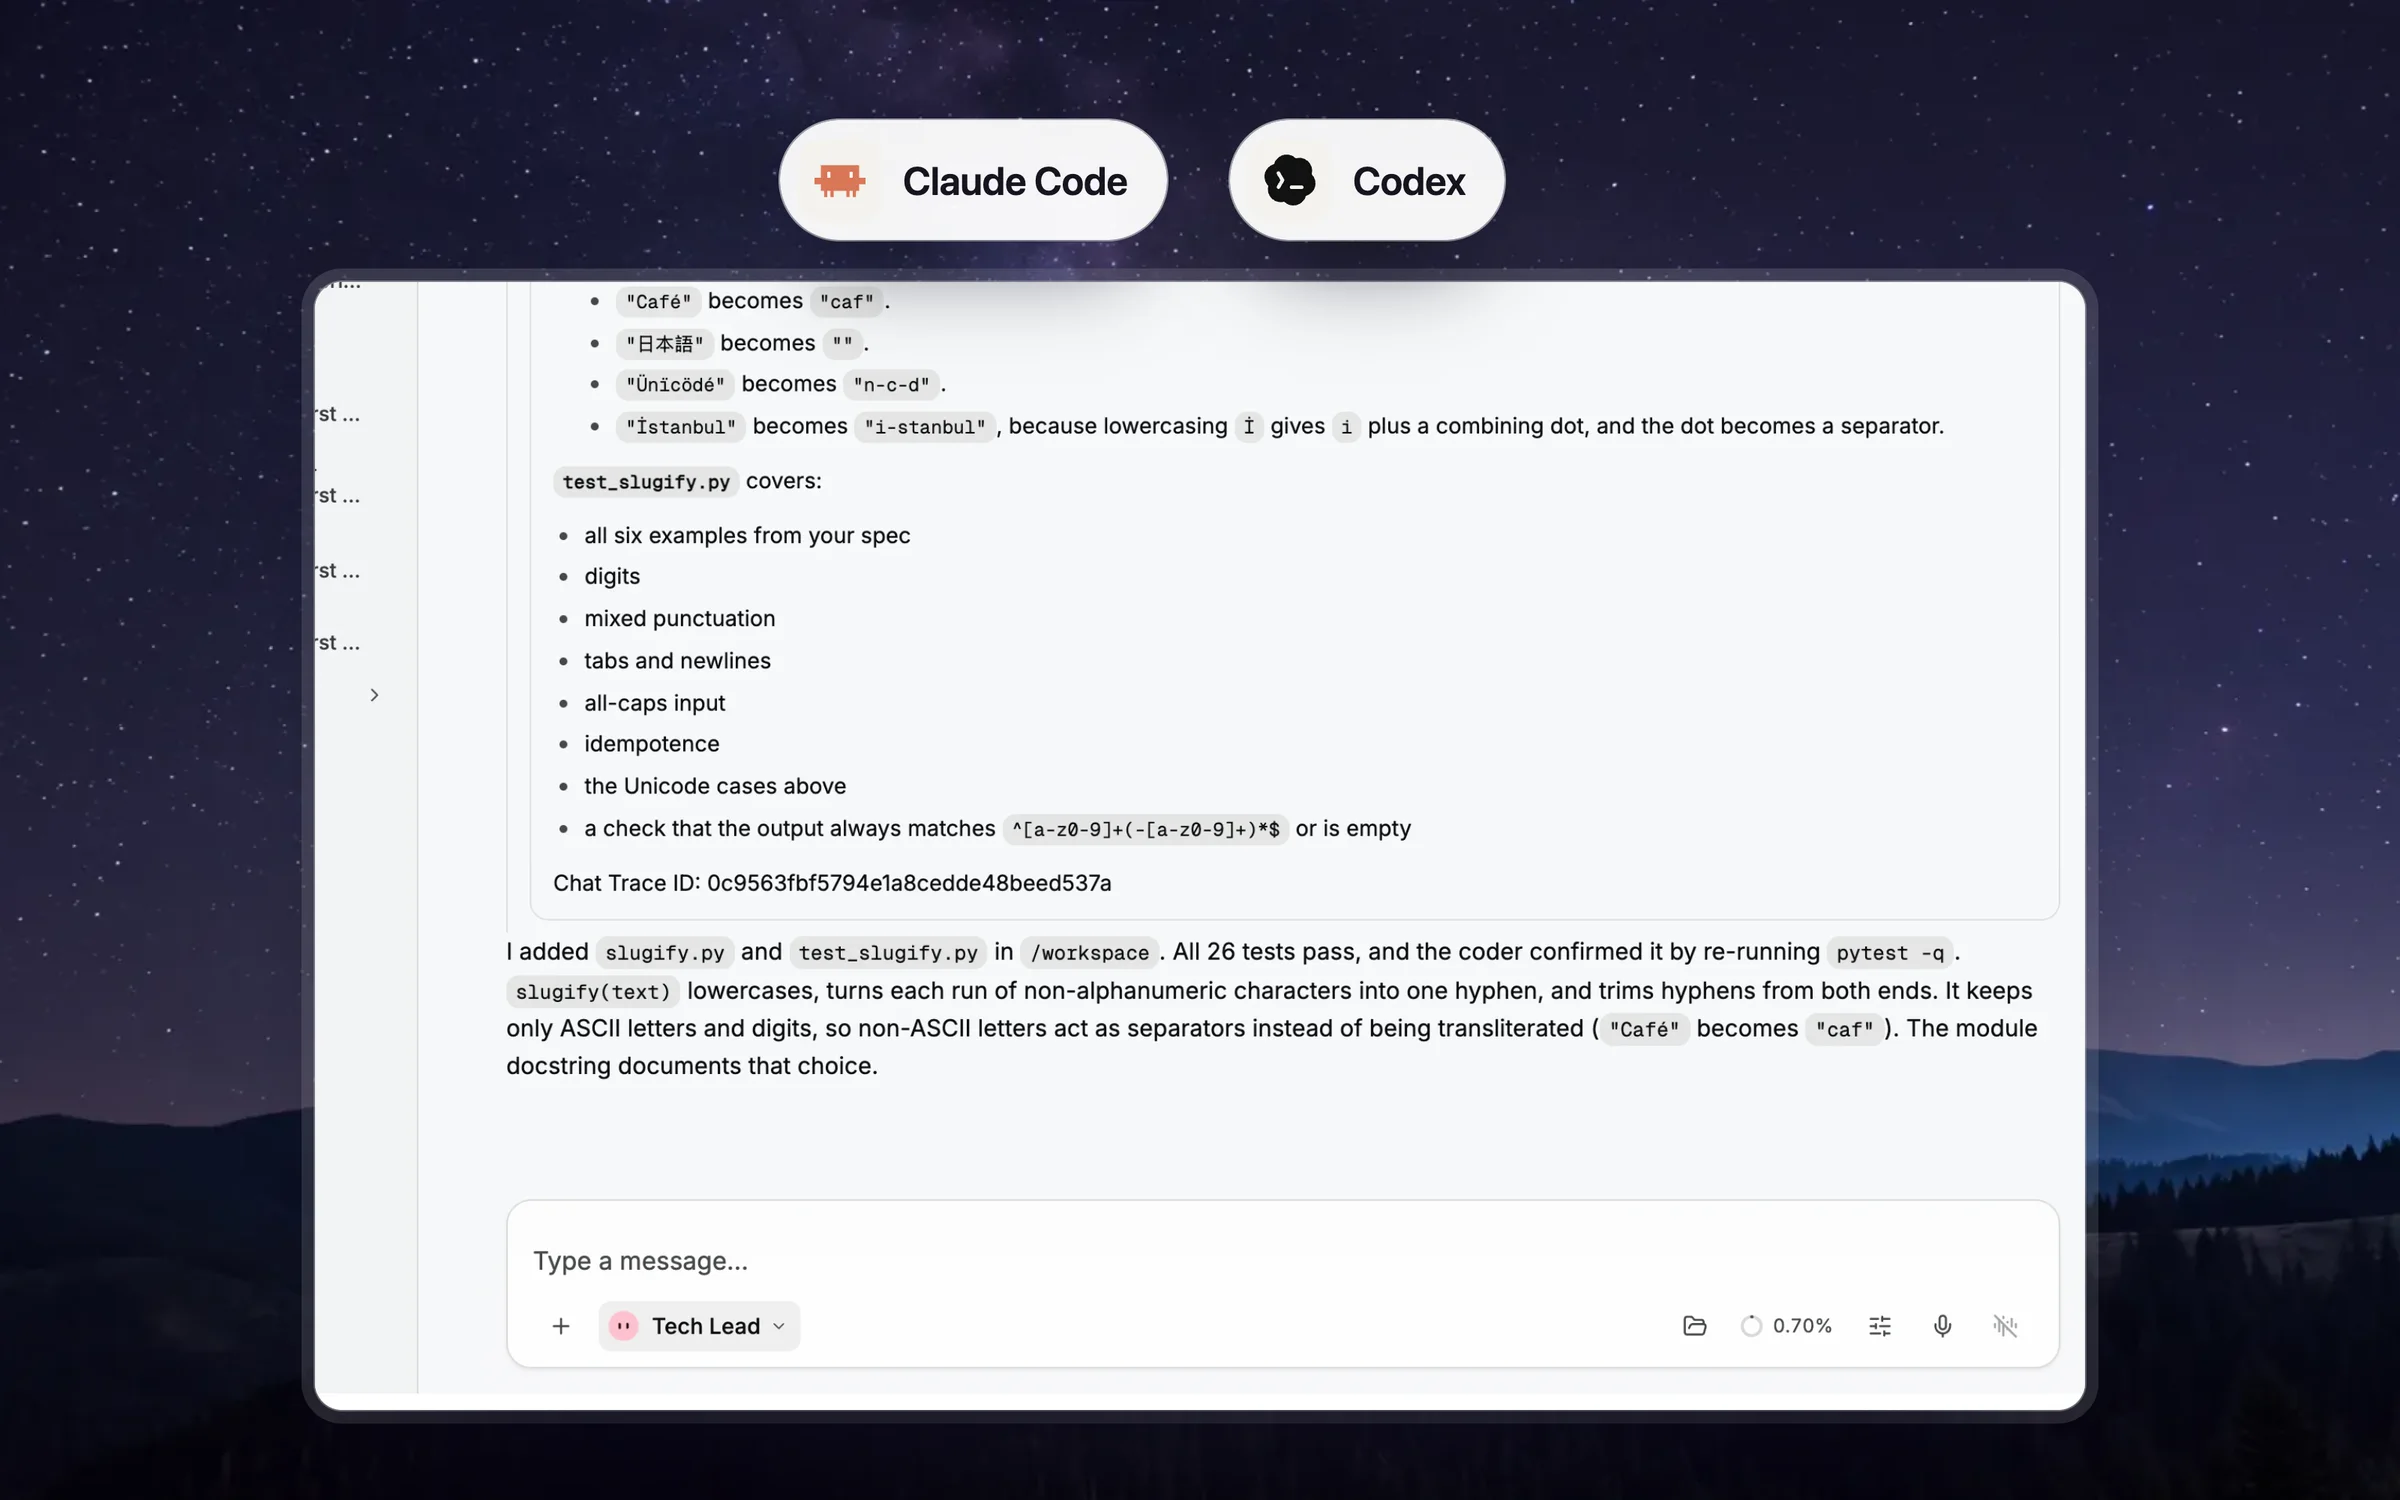
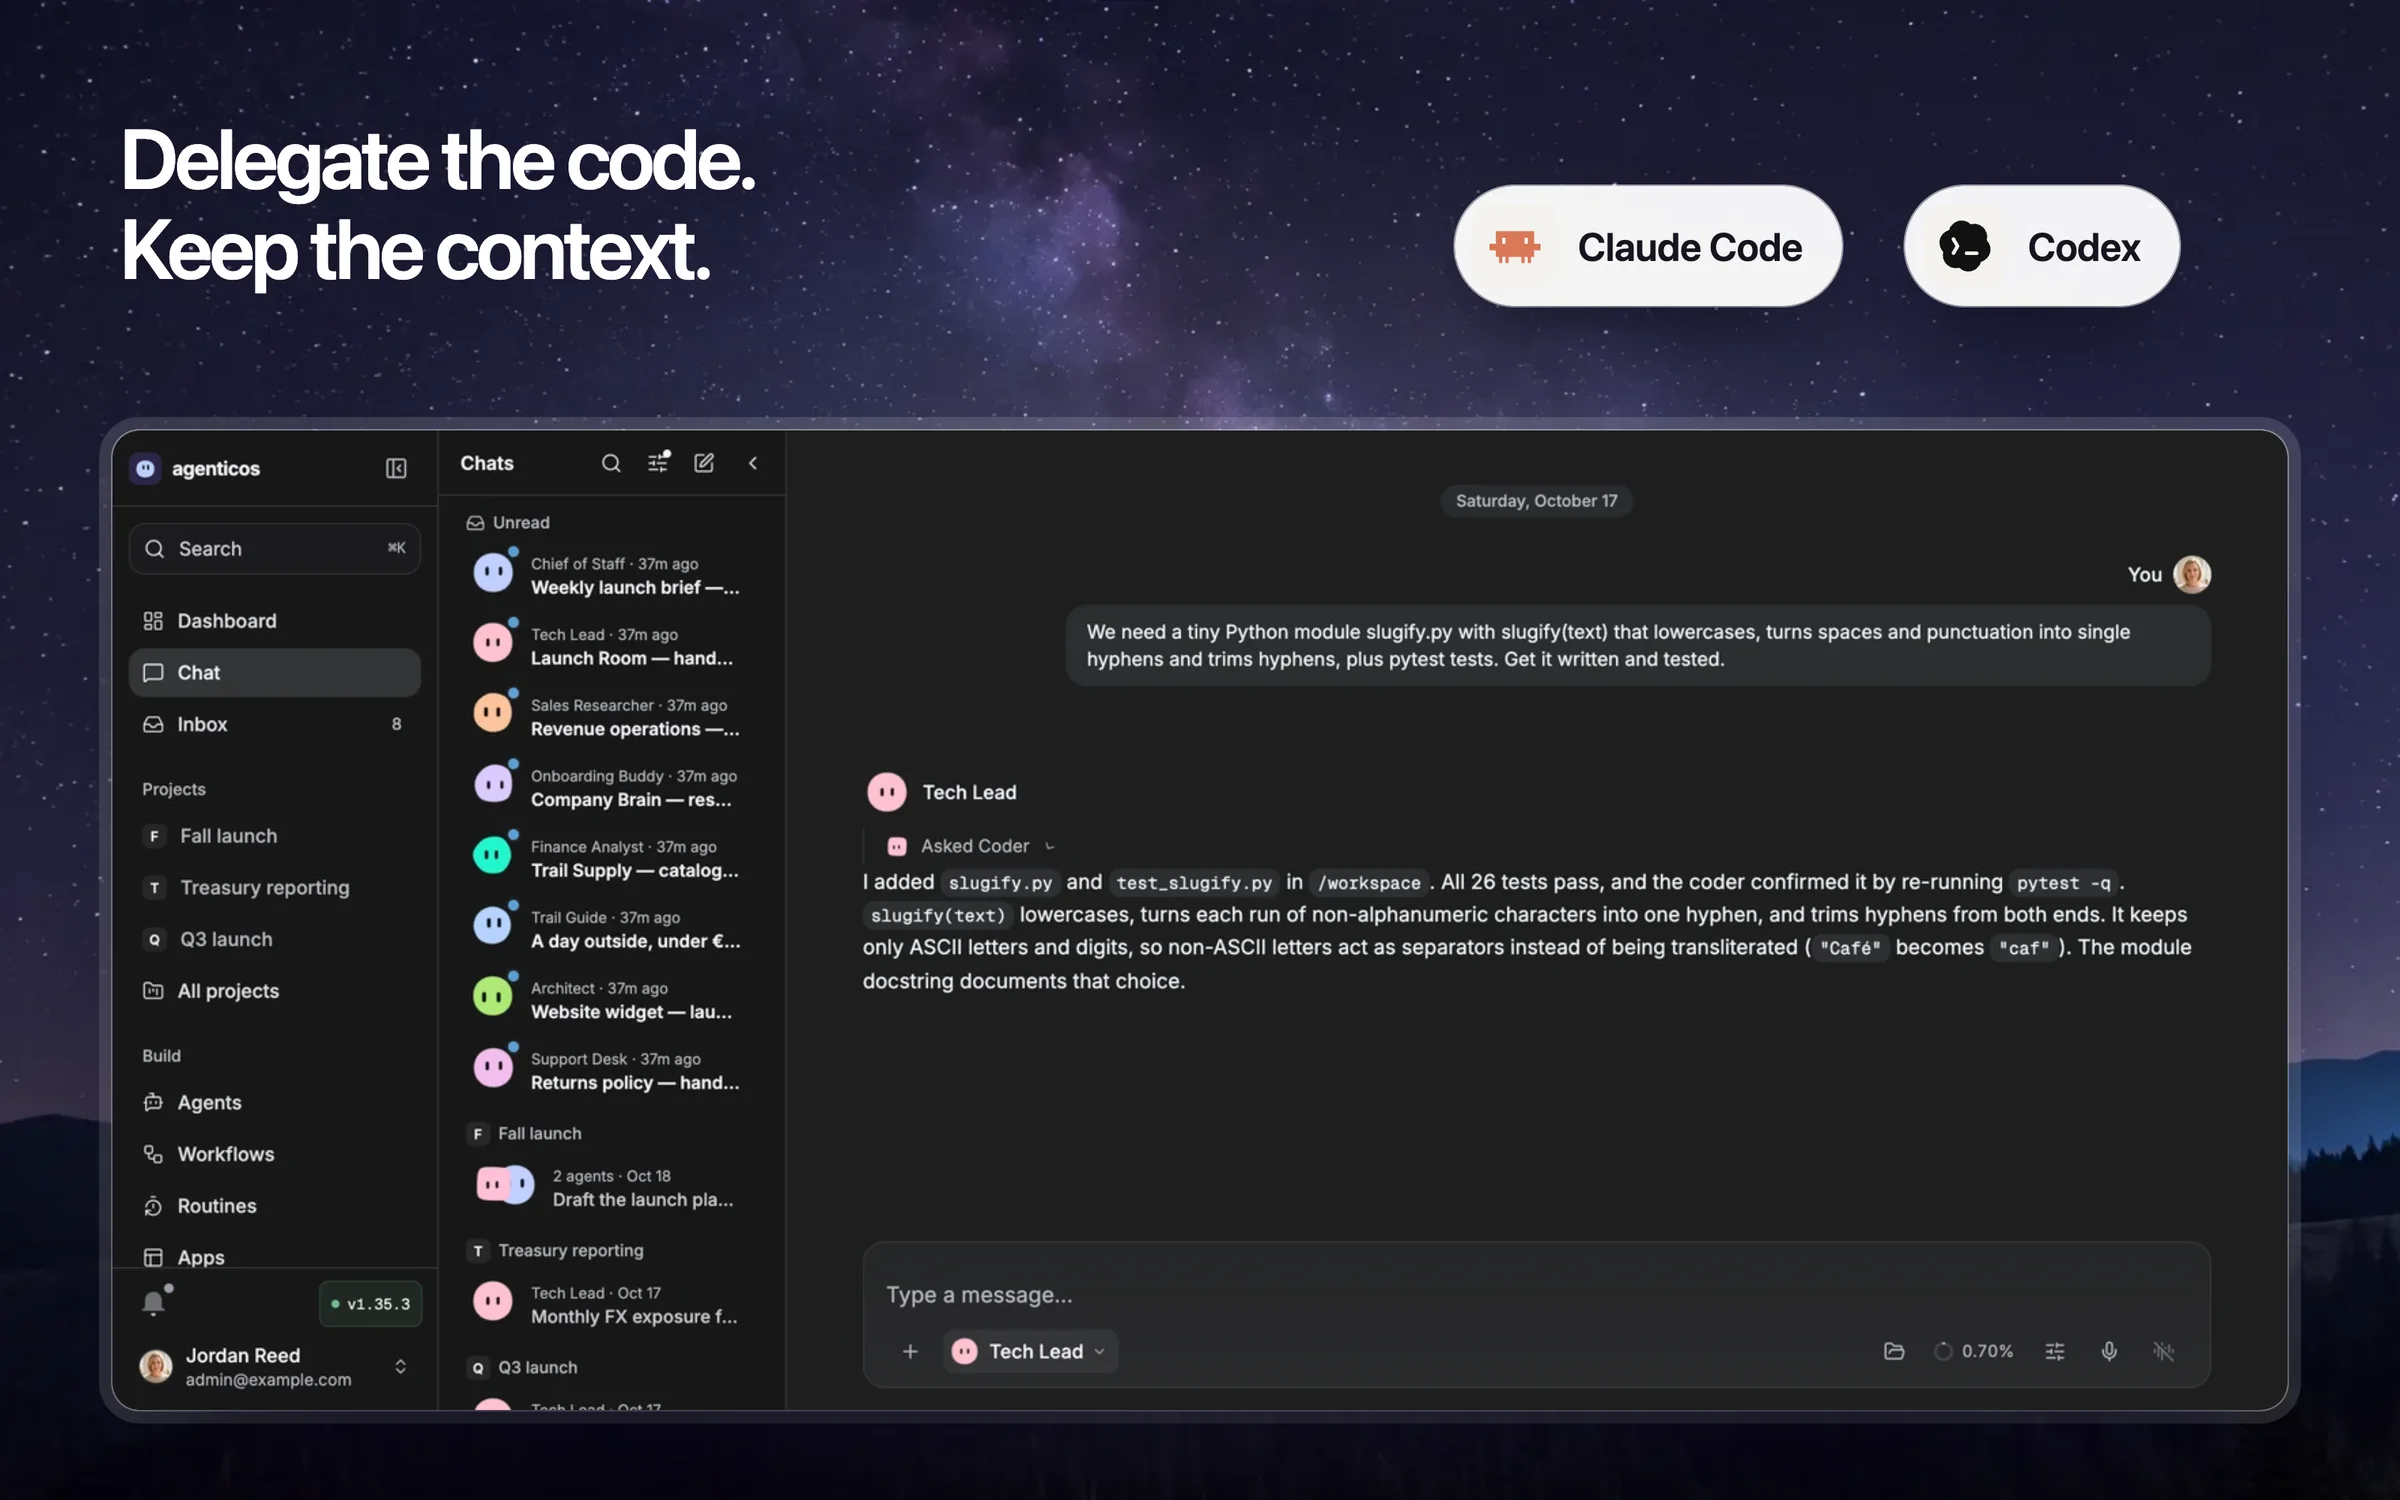
docs: make the coding handoff highlight readable

diff --git a/docs/assets/screens/README.md b/docs/assets/screens/README.md
@@ -199,3 +199,19 @@ with complimentary demo delivery. The bag and recommendation must agree.
 
 `images.json` records the three Unsplash image URLs and license. A pictured
 object's real-world brand does not endorse this fictional store; the photography does not establish the invented product specifications.
+
+
+## Coding highlight: show the handoff, not the expanded transcript
+
+`../readme/sources/coding-context-dark.webp` is a fresh capture of the historical
+Python-module conversation on the current local console. It shows the request,
+Tech Lead's collapsed `Asked Coder` step and the final report in a 1600 × 720
+viewport. No message, tool result or file list was rewritten for the image.
+The 26-test result is the recorded conversation's report, not a newly executed
+verification. The historical sandbox could not be reached from this local clone,
+so the Files panel is not part of the screenshot.
+
+To recapture, open that coding conversation in dark mode, collapse `Asked Coder`,
+scroll to the first user message and use the viewport above. Preserve the full
+console window. Render the editorial title, nature background and brand marks
+with `node docs/assets/readme/frames.mjs coding`.

diff --git a/README.es.md b/README.es.md
@@ -1,4 +1,4 @@
-<!-- source_sha: f2664196f042 -->
+<!-- source_sha: 0b85e01dafa4 -->
 
 <div align="center">
 
@@ -71,7 +71,7 @@ Responde al mensaje de una persona o de un agente, y el agente aplica el cambio 
 
 Cualquier agente puede pasar trabajo de software a Claude Code o Codex. Construyen en el ordenador propio del agente, con tu suscripción de ChatGPT o Claude, e informan de lo que cambiaron, lo que comprobaron y lo que necesitan de ti.
 
-<a href="docs/assets/readme/highlight-coding.webp"><img src="docs/assets/readme/highlight-coding.webp" alt="Una entrega de programación con archivos generados, pruebas, decisiones de implementación y asuntos pendientes." width="100%"></a>
+<a href="docs/assets/readme/highlight-coding.webp"><img src="docs/assets/readme/highlight-coding.webp" alt="La conversación de programación completa: la petición de un módulo Python, la delegación de Tech Lead a Coder y un breve informe de archivos y resultados de pruebas." width="100%"></a>
 
 ### Pregunta cómo funciona y recibe un dibujo que puedes usar
 

diff --git a/README.de.md b/README.de.md
@@ -1,4 +1,4 @@
-<!-- source_sha: f2664196f042 -->
+<!-- source_sha: 0b85e01dafa4 -->
 
 <div align="center">
 
@@ -71,7 +71,7 @@ Antworte auf die Nachricht einer Person oder eines Agents, und der Agent überni
 
 Jeder Agent kann Softwarearbeit an Claude Code oder Codex übergeben. Sie bauen auf dem eigenen Computer des Agents, mit deinem ChatGPT- oder Claude-Abo, und berichten, was sie geändert und geprüft haben und was sie von dir brauchen.
 
-<a href="docs/assets/readme/highlight-coding.webp"><img src="docs/assets/readme/highlight-coding.webp" alt="Eine Entwicklungsübergabe mit erzeugten Dateien, Tests, Implementierungsentscheidungen und offenen Punkten." width="100%"></a>
+<a href="docs/assets/readme/highlight-coding.webp"><img src="docs/assets/readme/highlight-coding.webp" alt="Das vollständige Programmiergespräch: eine Python-Modulanfrage, die Übergabe von Tech Lead an Coder und ein kurzer Bericht zu Dateien und Testergebnissen." width="100%"></a>
 
 ### Frag, wie es funktioniert, und bekomm eine Zeichnung, die du nutzen kannst
 

diff --git a/README.pl.md b/README.pl.md
@@ -1,4 +1,4 @@
-<!-- source_sha: f2664196f042 -->
+<!-- source_sha: 0b85e01dafa4 -->
 
 <div align="center">
 
@@ -71,7 +71,7 @@ Odpowiedz na wiadomość osoby albo agenta, a agent wprowadzi zmianę i powie, c
 
 Każdy agent może przekazać pracę programistyczną do Claude Code albo Codexa. Budują na własnym komputerze agenta, w ramach Twojej subskrypcji ChatGPT albo Claude, i raportują, co zmienili, co sprawdzili i czego potrzebują od Ciebie.
 
-<a href="docs/assets/readme/highlight-coding.webp"><img src="docs/assets/readme/highlight-coding.webp" alt="Przekazanie pracy programistycznej z nazwami plików, testami, wyborami implementacyjnymi i pozostałymi decyzjami." width="100%"></a>
+<a href="docs/assets/readme/highlight-coding.webp"><img src="docs/assets/readme/highlight-coding.webp" alt="Pełna rozmowa programistyczna: prośba o moduł Python, przekazanie pracy od Tech Lead do Coder i krótkie podsumowanie plików oraz wyników testów." width="100%"></a>
 
 ### Zapytaj, jak to działa, i dostań rysunek, którego możesz użyć
 

diff --git a/README.md b/README.md
@@ -69,7 +69,7 @@ Reply to a person or an agent's answer, and the agent applies the change and say
 
 Any agent can hand software work to Claude Code or Codex. They build in the agent's own computer, on your ChatGPT or Claude subscription, and report what they changed, what they checked and what they need from you.
 
-<a href="docs/assets/readme/highlight-coding.webp"><img src="docs/assets/readme/highlight-coding.webp" alt="A coding handoff naming the generated files, tests, implementation choices and remaining decisions." width="100%"></a>
+<a href="docs/assets/readme/highlight-coding.webp"><img src="docs/assets/readme/highlight-coding.webp" alt="The full coding conversation: a Python module request, Tech Lead delegating to Coder, and a concise report naming the files and test results." width="100%"></a>
 
 ### Ask how it works, get a drawing you can use
 
